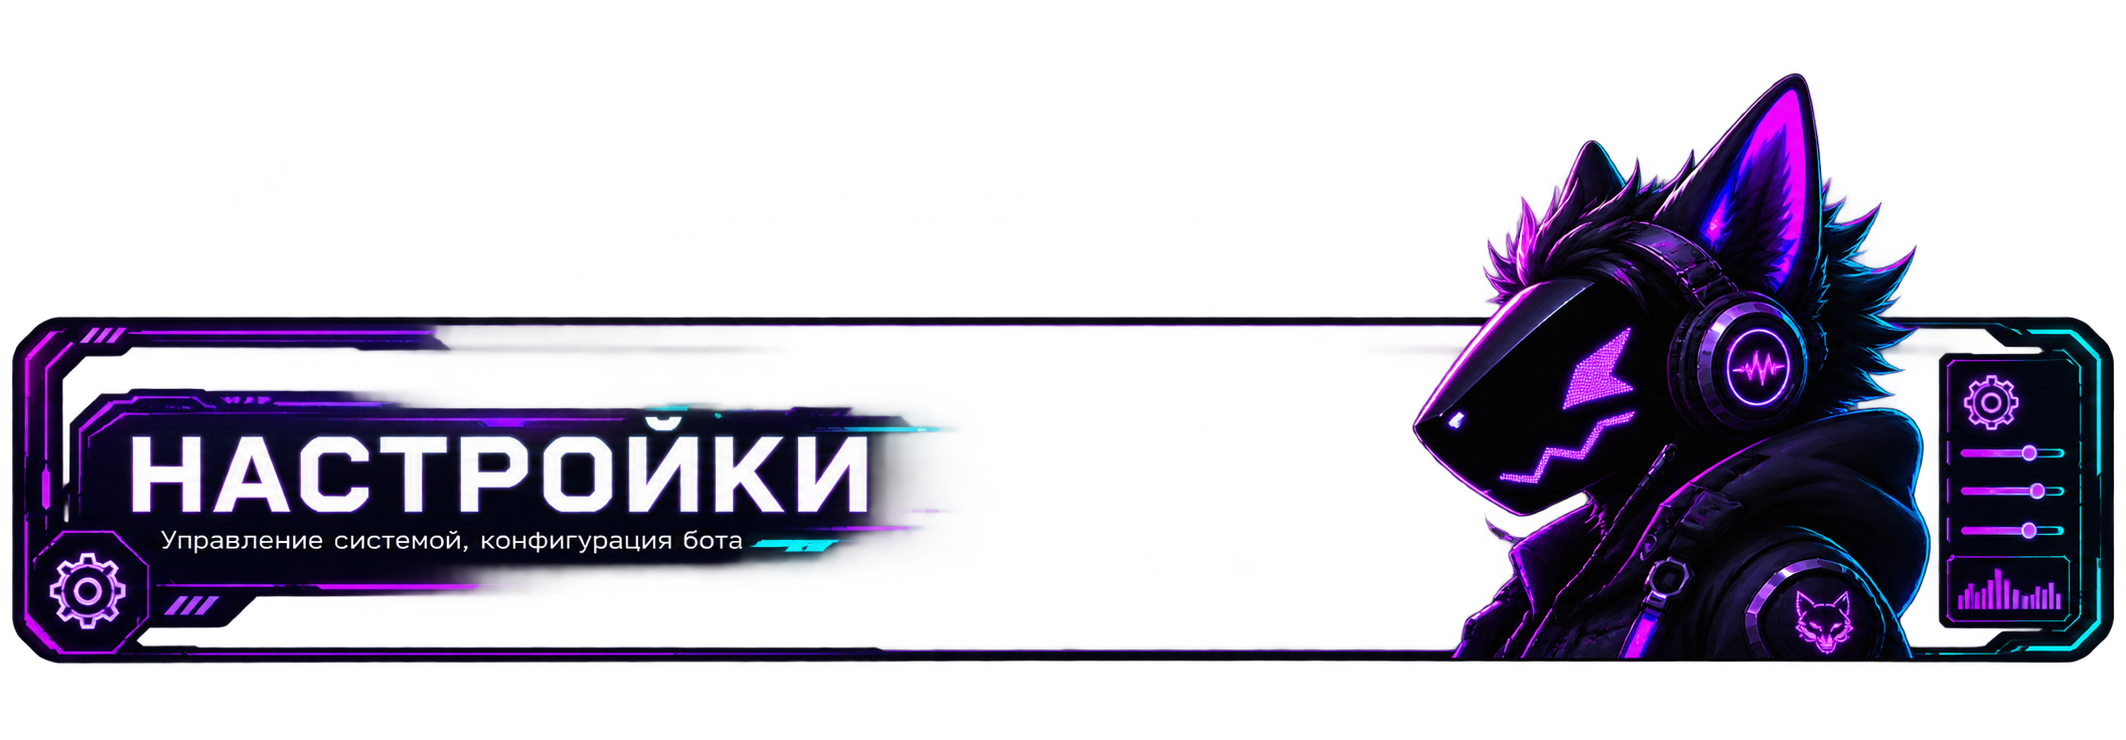
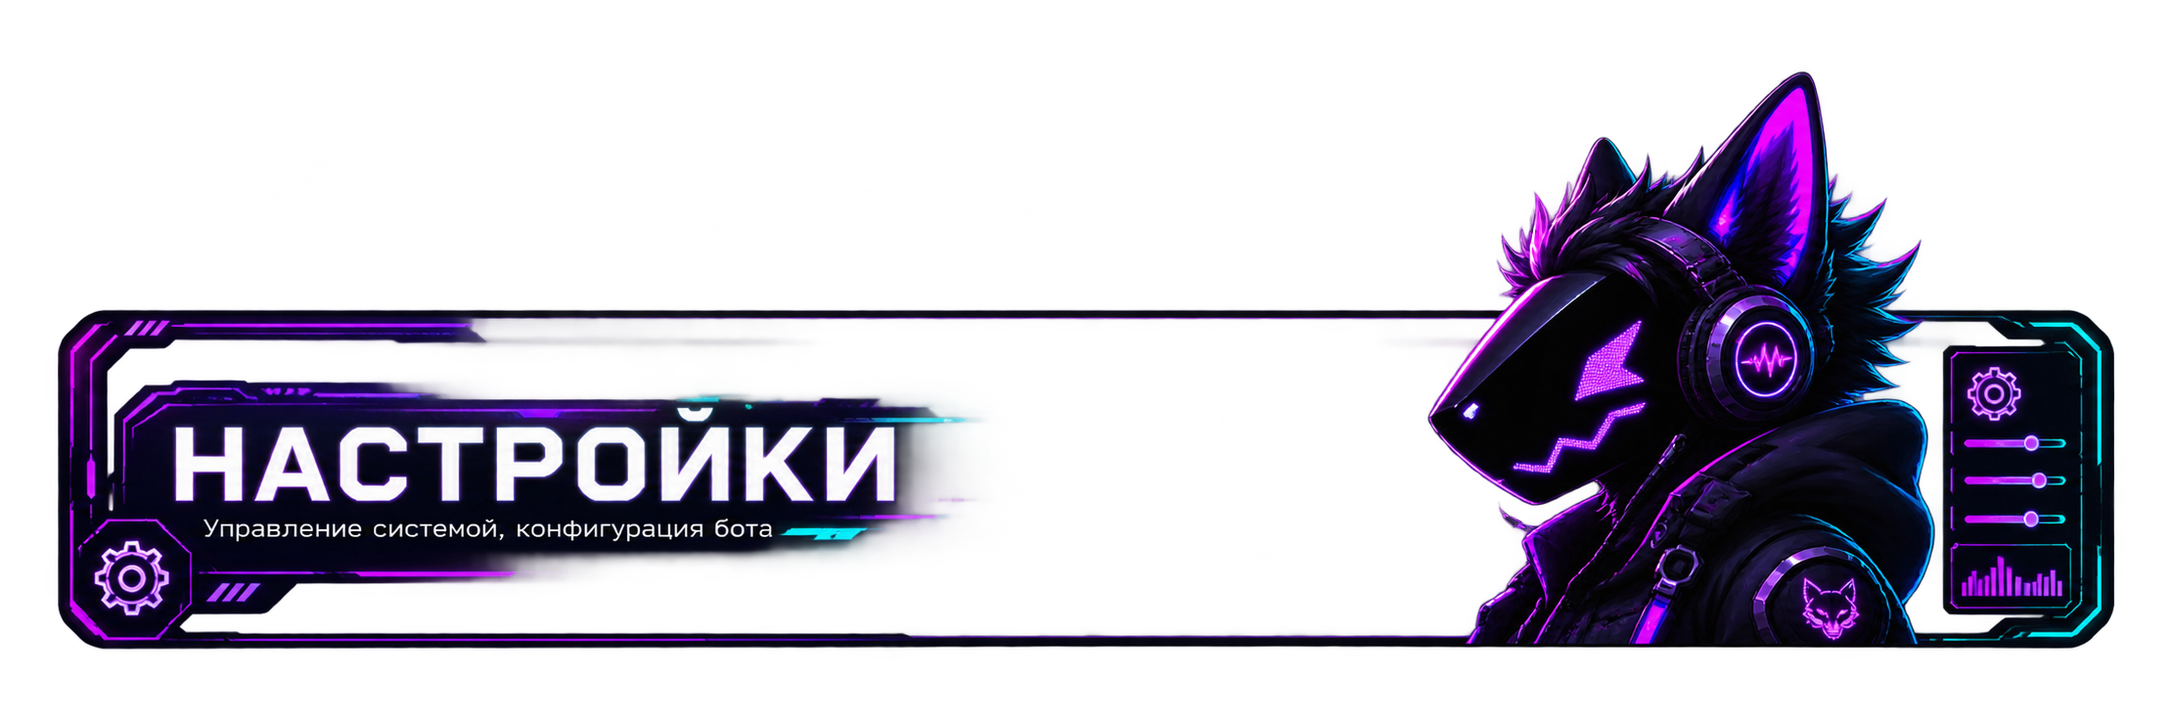
Add files via upload

Changed region(s): [[0.6519, 0.0912, 1.0, 0.9116], [0.0, 0.4254, 0.4346, 0.9116], [0.1552, 0.4254, 0.2484, 0.4862]]

diff --git a/static/history.css b/static/history.css
@@ -1,1 +1,1 @@
-.history-banner{width:100%;height:185px;margin:0 auto 22px;line-height:0;overflow:hidden;border-radius:14px;background:rgba(0,0,0,.16)}.history-banner img{display:block;width:100%;height:100%;max-width:none;object-fit:cover;object-position:center 45%;}.history-main{padding:35px 28px 25px}.history-hero{display:flex;justify-content:space-between;align-items:end;gap:20px;margin-bottom:22px}.history-hero h1{font-size:36px;margin:7px 0}.history-hero p{color:#789092;font-size:12px;margin:0}.online-pill{padding:8px 12px;border:1px solid rgba(0,255,225,.18);border-radius:999px;color:#79bdbc;font-size:8px;letter-spacing:1px;background:rgba(0,20,23,.6)}.online-pill i{display:inline-block;width:6px;height:6px;border-radius:50%;background:#00e6bf;box-shadow:0 0 9px #00e6bf;margin-right:5px}.history-toolbar{padding:12px;display:flex;align-items:center;gap:14px;margin-bottom:12px}.search{display:flex;align-items:center;gap:9px;flex:1;min-width:300px;padding:7px 8px 7px 13px;border:1px solid rgba(0,255,225,.15);border-radius:11px;background:rgba(3,13,17,.7)}.search span{font-size:21px;color:#607879}.search input{flex:1;min-width:0;border:0;outline:0;background:transparent;color:#eaffff;font-size:11px}.search input::placeholder{color:#526a6b}.search a{color:#647d7e;text-decoration:none;font-size:18px}.search button{border:0;border-radius:8px;padding:9px 14px;background:#00ffe1;color:#00110f;font-weight:900;cursor:pointer}.filters{display:flex;gap:6px;flex-wrap:wrap}.filters a{padding:8px 9px;border:1px solid rgba(255,255,255,.06);border-radius:8px;color:#698384;text-decoration:none;font-size:8px;white-space:nowrap;background:rgba(0,0,0,.15)}.filters a:hover,.filters a.selected{color:#00ffe1;border-color:rgba(0,255,225,.25);background:rgba(0,255,225,.05)}.error-box{padding:12px 14px;border:1px solid rgba(255,80,110,.3);border-radius:11px;background:rgba(100,20,35,.2);color:#ff9bac;margin-bottom:12px;font-size:11px}.history-panel{padding:16px 18px}.history-head{display:flex;align-items:end;justify-content:space-between;margin-bottom:12px}.history-head h2{margin:5px 0 0;font-size:18px}.panel-kicker{color:#00dccc;font-size:8px;font-weight:900;letter-spacing:1.5px}.history-count{color:#5d7677;font-size:9px}.history-row{display:grid;grid-template-columns:38px 1.35fr 2fr .75fr 90px 20px;align-items:center;gap:12px;padding:12px 7px;border-top:1px solid rgba(255,255,255,.045);color:#dff8f8;text-decoration:none;transition:.15s}.history-row:hover{background:rgba(0,255,225,.035);border-radius:10px}.history-icon{width:34px;height:34px;border-radius:9px;display:grid;place-items:center;background:rgba(0,255,225,.04)}.history-icon.warn{background:rgba(255,210,60,.08)}.history-icon.mute{background:rgba(150,160,255,.08)}.history-icon.ban{background:rgba(255,80,110,.08)}.history-icon.kick{background:rgba(190,150,255,.08)}.history-user strong{display:block;font-size:10px;white-space:nowrap;overflow:hidden;text-overflow:ellipsis}.history-user small{display:block;color:#536d6e;font-size:8px;margin-top:3px}.history-action b{display:block;font-size:9px;text-transform:uppercase}.history-action span{display:block;color:#607879;font-size:9px;margin-top:3px;white-space:nowrap;overflow:hidden;text-overflow:ellipsis}.history-action b.warn{color:#ffd45e}.history-action b.mute{color:#aabaff}.history-action b.ban{color:#ff8295}.history-action b.kick{color:#cbb7ff}.history-action b.unwarn{color:#9ed9b8}.history-action b.unmute,.history-action b.unban{color:#6de2d0}.history-mod small{display:block;color:#4f696a;font-size:7px;letter-spacing:1px}.history-mod b{display:block;color:#9bb6b7;font-size:9px;margin-top:4px}.history-row time{color:#526a6b;font-size:8px;text-align:right;line-height:1.6}.arrow{color:#00ffe1;text-align:right}.empty-history{text-align:center;padding:65px 20px;color:#5d7677}.empty-history div{font-size:30px}.empty-history h3{color:#a9c0c0;font-size:15px;margin:10px 0 5px}.empty-history p{font-size:9px;margin:0}@media(max-width:1050px){.history-toolbar{align-items:stretch;flex-direction:column}.search{min-width:0}.history-row{grid-template-columns:38px 1fr 1.4fr 70px 20px}.history-mod{display:none}}@media(max-width:700px){.history-main{padding:25px 15px}.history-hero{align-items:start;flex-direction:column}.history-row{grid-template-columns:35px 1fr 20px}.history-action,.history-row time{display:none}}
+.history-banner{height:185px;margin:0 auto 14px;line-height:0;overflow:hidden;border-radius:14px;background:transparent;position:relative;box-shadow:none}.history-banner img{display:block;width:100%;height:100%;object-fit:contain;object-position:center;max-width:none}.history-main{padding:35px 28px 25px}.history-hero{display:flex;justify-content:space-between;align-items:end;gap:20px;margin-bottom:22px}.history-hero h1{font-size:36px;margin:7px 0}.history-hero p{color:#789092;font-size:12px;margin:0}.online-pill{padding:8px 12px;border:1px solid rgba(0,255,225,.18);border-radius:999px;color:#79bdbc;font-size:8px;letter-spacing:1px;background:rgba(0,20,23,.6)}.online-pill i{display:inline-block;width:6px;height:6px;border-radius:50%;background:#00e6bf;box-shadow:0 0 9px #00e6bf;margin-right:5px}.history-toolbar{padding:12px;display:flex;align-items:center;gap:14px;margin-bottom:12px}.search{display:flex;align-items:center;gap:9px;flex:1;min-width:300px;padding:7px 8px 7px 13px;border:1px solid rgba(0,255,225,.15);border-radius:11px;background:rgba(3,13,17,.7)}.search span{font-size:21px;color:#607879}.search input{flex:1;min-width:0;border:0;outline:0;background:transparent;color:#eaffff;font-size:11px}.search input::placeholder{color:#526a6b}.search a{color:#647d7e;text-decoration:none;font-size:18px}.search button{border:0;border-radius:8px;padding:9px 14px;background:#00ffe1;color:#00110f;font-weight:900;cursor:pointer}.filters{display:flex;gap:6px;flex-wrap:wrap}.filters a{padding:8px 9px;border:1px solid rgba(255,255,255,.06);border-radius:8px;color:#698384;text-decoration:none;font-size:8px;white-space:nowrap;background:rgba(0,0,0,.15)}.filters a:hover,.filters a.selected{color:#00ffe1;border-color:rgba(0,255,225,.25);background:rgba(0,255,225,.05)}.error-box{padding:12px 14px;border:1px solid rgba(255,80,110,.3);border-radius:11px;background:rgba(100,20,35,.2);color:#ff9bac;margin-bottom:12px;font-size:11px}.history-panel{padding:16px 18px}.history-head{display:flex;align-items:end;justify-content:space-between;margin-bottom:12px}.history-head h2{margin:5px 0 0;font-size:18px}.panel-kicker{color:#00dccc;font-size:8px;font-weight:900;letter-spacing:1.5px}.history-count{color:#5d7677;font-size:9px}.history-row{display:grid;grid-template-columns:38px 1.35fr 2fr .75fr 90px 20px;align-items:center;gap:12px;padding:12px 7px;border-top:1px solid rgba(255,255,255,.045);color:#dff8f8;text-decoration:none;transition:.15s}.history-row:hover{background:rgba(0,255,225,.035);border-radius:10px}.history-icon{width:34px;height:34px;border-radius:9px;display:grid;place-items:center;background:rgba(0,255,225,.04)}.history-icon.warn{background:rgba(255,210,60,.08)}.history-icon.mute{background:rgba(150,160,255,.08)}.history-icon.ban{background:rgba(255,80,110,.08)}.history-icon.kick{background:rgba(190,150,255,.08)}.history-user strong{display:block;font-size:10px;white-space:nowrap;overflow:hidden;text-overflow:ellipsis}.history-user small{display:block;color:#536d6e;font-size:8px;margin-top:3px}.history-action b{display:block;font-size:9px;text-transform:uppercase}.history-action span{display:block;color:#607879;font-size:9px;margin-top:3px;white-space:nowrap;overflow:hidden;text-overflow:ellipsis}.history-action b.warn{color:#ffd45e}.history-action b.mute{color:#aabaff}.history-action b.ban{color:#ff8295}.history-action b.kick{color:#cbb7ff}.history-action b.unwarn{color:#9ed9b8}.history-action b.unmute,.history-action b.unban{color:#6de2d0}.history-mod small{display:block;color:#4f696a;font-size:7px;letter-spacing:1px}.history-mod b{display:block;color:#9bb6b7;font-size:9px;margin-top:4px}.history-row time{color:#526a6b;font-size:8px;text-align:right;line-height:1.6}.arrow{color:#00ffe1;text-align:right}.empty-history{text-align:center;padding:65px 20px;color:#5d7677}.empty-history div{font-size:30px}.empty-history h3{color:#a9c0c0;font-size:15px;margin:10px 0 5px}.empty-history p{font-size:9px;margin:0}@media(max-width:1050px){.history-toolbar{align-items:stretch;flex-direction:column}.search{min-width:0}.history-row{grid-template-columns:38px 1fr 1.4fr 70px 20px}.history-mod{display:none}}@media(max-width:700px){.history-main{padding:25px 15px}.history-hero{align-items:start;flex-direction:column}.history-row{grid-template-columns:35px 1fr 20px}.history-action,.history-row time{display:none}}

diff --git a/static/settings.css b/static/settings.css
@@ -1,4 +1,4 @@
-.settings-content{padding:24px 34px 28px;min-width:0}.settings-hero{position:relative;width:100%;height:185px;min-height:185px;max-width:1400px;margin:0 auto 16px;padding:0;display:block;border:0;border-radius:14px;background:url("/static/settings_banner_bg.png") center center/cover no-repeat;box-shadow:none;overflow:hidden}.settings-hero:after{display:none}.settings-hero-copy{position:relative;z-index:2}.settings-hero h1{font-size:36px;line-height:1.05;margin:7px 0 6px;letter-spacing:-1px}.settings-hero p{margin:0;color:#78909f;font-size:12px}.eyebrow,.card-kicker{font-size:9px;letter-spacing:2.2px;color:var(--s-cyan);font-weight:800}.hero-statuses{display:flex;gap:10px;flex-wrap:wrap;position:relative;z-index:2}.hero-statuses span{border:1px solid rgba(0,255,225,.18);background:rgba(2,17,28,.58);padding:10px 13px;border-radius:11px;font-size:8px;letter-spacing:1.2px;color:#7e98a6}.hero-statuses b{color:var(--s-cyan);margin-left:4px}.settings-form{max-width:1440px;margin:0 auto}.settings-columns{display:grid;grid-template-columns:minmax(0,.92fr) minmax(0,1.08fr);gap:18px}.settings-left,.settings-right{display:grid;gap:18px;align-content:start}
+.settings-content{padding:24px 34px 28px;min-width:0}.settings-hero{position:relative;width:100%;height:185px;min-height:185px;max-width:1400px;margin:0 auto 14px;padding:0;display:block;border:0;border-radius:14px;background:transparent;box-shadow:none;overflow:hidden}.settings-hero:before{content:"";position:absolute;inset:0;background:url("/static/settings_banner_bg.png") center center/contain no-repeat;z-index:0}.settings-hero:after{display:none}.settings-hero-copy{position:relative;z-index:2}.settings-hero h1{font-size:36px;line-height:1.05;margin:7px 0 6px;letter-spacing:-1px}.settings-hero p{margin:0;color:#78909f;font-size:12px}.eyebrow,.card-kicker{font-size:9px;letter-spacing:2.2px;color:var(--s-cyan);font-weight:800}.hero-statuses{display:flex;gap:10px;flex-wrap:wrap;position:relative;z-index:2}.hero-statuses span{border:1px solid rgba(0,255,225,.18);background:rgba(2,17,28,.58);padding:10px 13px;border-radius:11px;font-size:8px;letter-spacing:1.2px;color:#7e98a6}.hero-statuses b{color:var(--s-cyan);margin-left:4px}.settings-form{max-width:1440px;margin:0 auto}.settings-columns{display:grid;grid-template-columns:minmax(0,.92fr) minmax(0,1.08fr);gap:18px}.settings-left,.settings-right{display:grid;gap:18px;align-content:start}
 .neon-card{position:relative;border:1px solid rgba(0,255,225,.2);border-radius:18px;background:linear-gradient(145deg,rgba(6,14,31,.92),rgba(4,9,23,.78));box-shadow:0 15px 55px rgba(0,0,0,.26),inset 0 0 35px rgba(0,255,225,.018);overflow:hidden}.neon-card:before{content:"";position:absolute;inset:0;background:linear-gradient(120deg,rgba(155,69,255,.04),transparent 38%,rgba(0,255,225,.025));pointer-events:none}.neon-card:after{content:"";position:absolute;top:0;left:0;right:0;height:1px;background:linear-gradient(90deg,transparent,var(--s-violet),var(--s-cyan),transparent);opacity:.55}.card-head{position:relative;display:flex;justify-content:space-between;gap:18px;align-items:center;padding:22px 22px 18px;border-bottom:1px solid rgba(255,255,255,.05)}.card-title-wrap{display:flex;align-items:center;gap:14px}.card-icon{width:42px;height:42px;display:grid;place-items:center;border-radius:13px;border:1px solid rgba(155,69,255,.4);background:linear-gradient(145deg,rgba(155,69,255,.18),rgba(0,255,225,.03));color:#d66cff;font-size:21px;box-shadow:0 0 22px rgba(155,69,255,.14)}.card-icon.shield{color:#a867ff}.card-icon.brain{color:var(--s-cyan);border-color:rgba(0,255,225,.35)}.card-icon.bolt{color:#c55bff}.card-icon.clock{color:#d06bff}.card-title-wrap h2{margin:3px 0 2px;font-size:20px}.card-title-wrap p{margin:0;color:#617889;font-size:10px}.neon-switch{position:relative;display:inline-flex;flex:none}.neon-switch input{position:absolute;opacity:0;pointer-events:none}.neon-switch i{display:block;width:42px;height:23px;border-radius:999px;border:1px solid rgba(128,153,165,.28);background:#111b2a;position:relative;transition:.2s;box-shadow:inset 0 0 10px rgba(0,0,0,.35)}.neon-switch i:after{content:"";position:absolute;width:17px;height:17px;left:3px;top:2px;border-radius:50%;background:#91a4ae;transition:.2s;box-shadow:0 0 8px rgba(0,0,0,.3)}.neon-switch input:checked+i{border-color:rgba(0,255,225,.75);background:linear-gradient(90deg,rgba(0,255,225,.22),rgba(155,69,255,.35));box-shadow:0 0 16px rgba(0,255,225,.15),inset 0 0 12px rgba(0,255,225,.08)}.neon-switch input:checked+i:after{transform:translateX(18px);background:#fff;box-shadow:0 0 12px var(--s-cyan)}.main-switch i{width:50px;height:27px}.main-switch i:after{width:19px;height:19px}.main-switch input:checked+i:after{transform:translateX(22px)}
 .setting-list{padding:11px 18px 18px}.setting-item{display:flex;align-items:center;gap:12px;padding:13px 12px;border-bottom:1px solid rgba(255,255,255,.045);cursor:pointer;transition:.18s}.setting-item:last-child{border-bottom:0}.setting-item:hover{background:rgba(155,69,255,.035);border-radius:11px}.item-icon{width:34px;height:34px;display:grid;place-items:center;border-radius:10px;background:rgba(155,69,255,.08);border:1px solid rgba(155,69,255,.16);color:#c66cff}.item-copy{min-width:0;flex:1}.item-copy b{display:block;font-size:12px}.item-copy small{display:block;color:#536c7c;font-size:9px;margin-top:3px}.automation-note,.db-info{display:flex;gap:10px;align-items:flex-start;margin-top:12px;padding:11px 12px;border:1px solid rgba(0,255,225,.1);border-radius:11px;background:rgba(0,255,225,.025)}.automation-note>span{width:19px;height:19px;display:grid;place-items:center;border-radius:50%;border:1px solid rgba(0,255,225,.35);color:var(--s-cyan);font-size:10px}.automation-note b,.db-info b{display:block;font-size:9px;color:#b8c9d4}.automation-note small,.db-info small{display:block;margin-top:3px;color:#506778;font-size:8px;line-height:1.4}
 .ai-card{border-color:rgba(0,255,225,.34);box-shadow:0 0 50px rgba(0,255,225,.04),0 15px 55px rgba(0,0,0,.28),inset 0 0 50px rgba(0,255,225,.018)}.ai-online{font-size:8px;letter-spacing:1.2px;color:var(--s-cyan);display:flex;gap:6px;align-items:center;border:1px solid rgba(0,255,225,.15);padding:8px 10px;border-radius:9px}.profile-select-wrap{margin:18px 22px 8px;padding:13px 14px;border:1px solid rgba(0,255,225,.12);border-radius:13px;background:rgba(0,20,30,.26);display:flex;align-items:center;justify-content:space-between;gap:16px}.profile-select-wrap label{display:block;color:#c95fff;font-size:9px;letter-spacing:1.4px;font-weight:800}.profile-select-wrap small{display:block;color:#526c7b;font-size:8px;margin-top:4px}.profile-select-wrap select{min-width:190px;padding:11px 13px;border:1px solid rgba(0,255,225,.25);border-radius:10px;background:#07111f;color:#eefcff;outline:0;font-weight:700}.profile-description{margin:0 22px;padding:9px 12px;color:#617b89;font-size:9px;line-height:1.5}.sliders{padding:8px 22px 3px}.personality-slider{padding:11px 0}.slider-label{display:flex;justify-content:space-between;gap:15px;font-size:11px;color:#d5e1e8;margin-bottom:8px}.slider-label strong{color:#eef;min-width:38px;text-align:right}.personality-slider input{appearance:none;width:100%;height:5px;border-radius:999px;background:linear-gradient(90deg,var(--s-violet) 0,var(--s-violet) var(--value,0%),#142238 var(--value,0%),#142238 100%);outline:0;transition:background .12s ease}.personality-slider input::-webkit-slider-thumb{appearance:none;width:15px;height:15px;border-radius:50%;background:#fff;border:2px solid #d66cff;box-shadow:0 0 12px #a44fff;cursor:pointer}.personality-slider input::-moz-range-thumb{width:12px;height:12px;border-radius:50%;background:#fff;border:2px solid #d66cff;box-shadow:0 0 12px #a44fff;cursor:pointer}.preview-box{margin:15px 22px 21px;padding:14px;border:1px solid rgba(155,69,255,.2);border-radius:13px;background:rgba(6,7,25,.65)}.preview-head{font-size:8px;letter-spacing:1.4px;color:#c45cff;display:flex;gap:8px;align-items:center}.preview-head i{width:5px;height:5px;border-radius:50%;background:var(--s-cyan);box-shadow:0 0 8px var(--s-cyan);margin-left:auto}.preview-box p{font-size:10px;line-height:1.55;color:#cbd9e2;margin:10px 0}.preview-refresh{width:100%;border:1px solid rgba(155,69,255,.2);background:rgba(155,69,255,.045);color:var(--s-cyan);border-radius:9px;padding:9px;font-size:8px;letter-spacing:1px;cursor:pointer}.preview-refresh:hover{border-color:rgba(0,255,225,.35);box-shadow:0 0 15px rgba(0,255,225,.07)}
